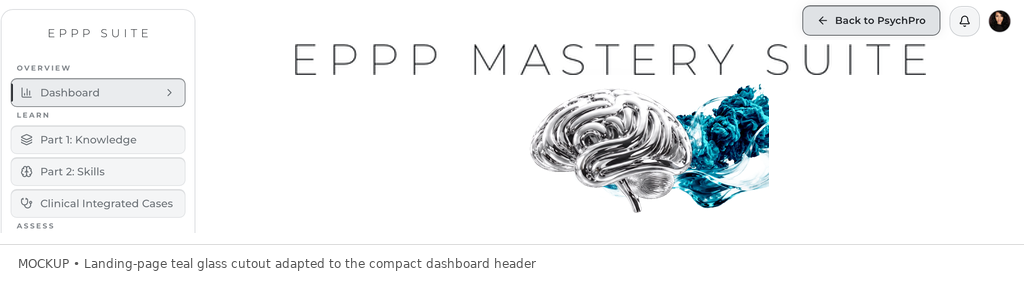
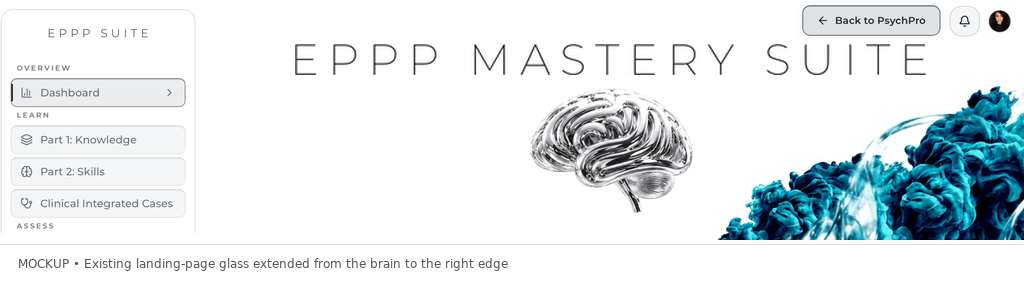
Update dashboard assets and metadata configuration
Replit-Commit-Author: Agent

Changed region(s): [[0.6562, 0.2837, 1.0, 0.8511], [0.0938, 0.9078, 0.5312, 0.9645], [0.5938, 0.6525, 0.625, 0.6809]]

diff --git a/attached_assets/dashboard-landing-glass-mockups.py b/attached_assets/dashboard-landing-glass-mockups.py
@@ -43,11 +43,14 @@ brain = Image.open(CHROME_BRAIN).convert("RGBA")
 brain_height = round(brain.height * BRAIN_WIDTH / brain.width)
 brain = brain.resize((BRAIN_WIDTH, brain_height), Image.Resampling.LANCZOS)
 
-# Use the exact landing-page asset, adapted to the dashboard's compact header.
-# The landing hero's 318.5% scale reaches into dashboard controls, so this
-# preview contains it at 200% while preserving its asymmetric composition.
-glass_width = round(BRAIN_WIDTH * 2)
+# Use the exact landing-page asset as a continuous right-edge composition.
+# At this width, the artwork starts behind the brain and reaches the dashboard
+# viewport edge without tiling or inventing a second texture.
+glass_width = 600
 glass_source = Image.open(TEAL_GLASS).convert("RGBA")
+alpha_bounds = glass_source.getchannel("A").getbbox()
+if alpha_bounds:
+    glass_source = glass_source.crop(alpha_bounds)
 glass_height = round(glass_source.height * glass_width / glass_source.width)
 glass = glass_source.resize((glass_width, glass_height), Image.Resampling.LANCZOS)
 
@@ -72,8 +75,8 @@ for mockup in MOCKUPS:
 
     brain_x = CONTENT_LEFT + ((TARGET_WIDTH - CONTENT_LEFT - brain.width) // 2)
     title_x = CONTENT_LEFT + ((TARGET_WIDTH - CONTENT_LEFT - title.width) // 2)
-    glass_x = round(brain_x - (BRAIN_WIDTH * 0.55))
-    glass_y = 78
+    glass_x = brain_x - 78
+    glass_y = 80
 
     composed.alpha_composite(glass, (glass_x, glass_y))
     composed.alpha_composite(title, (title_x, TITLE_TOP))
@@ -89,7 +92,7 @@ for mockup in MOCKUPS:
     )
     draw.text(
         (18, canvas_height + 16),
-        "MOCKUP • Landing-page teal glass cutout adapted to the compact dashboard header",
+        "MOCKUP • Existing landing-page glass extended from the brain to the right edge",
         font=font,
         fill="#555555",
     )
